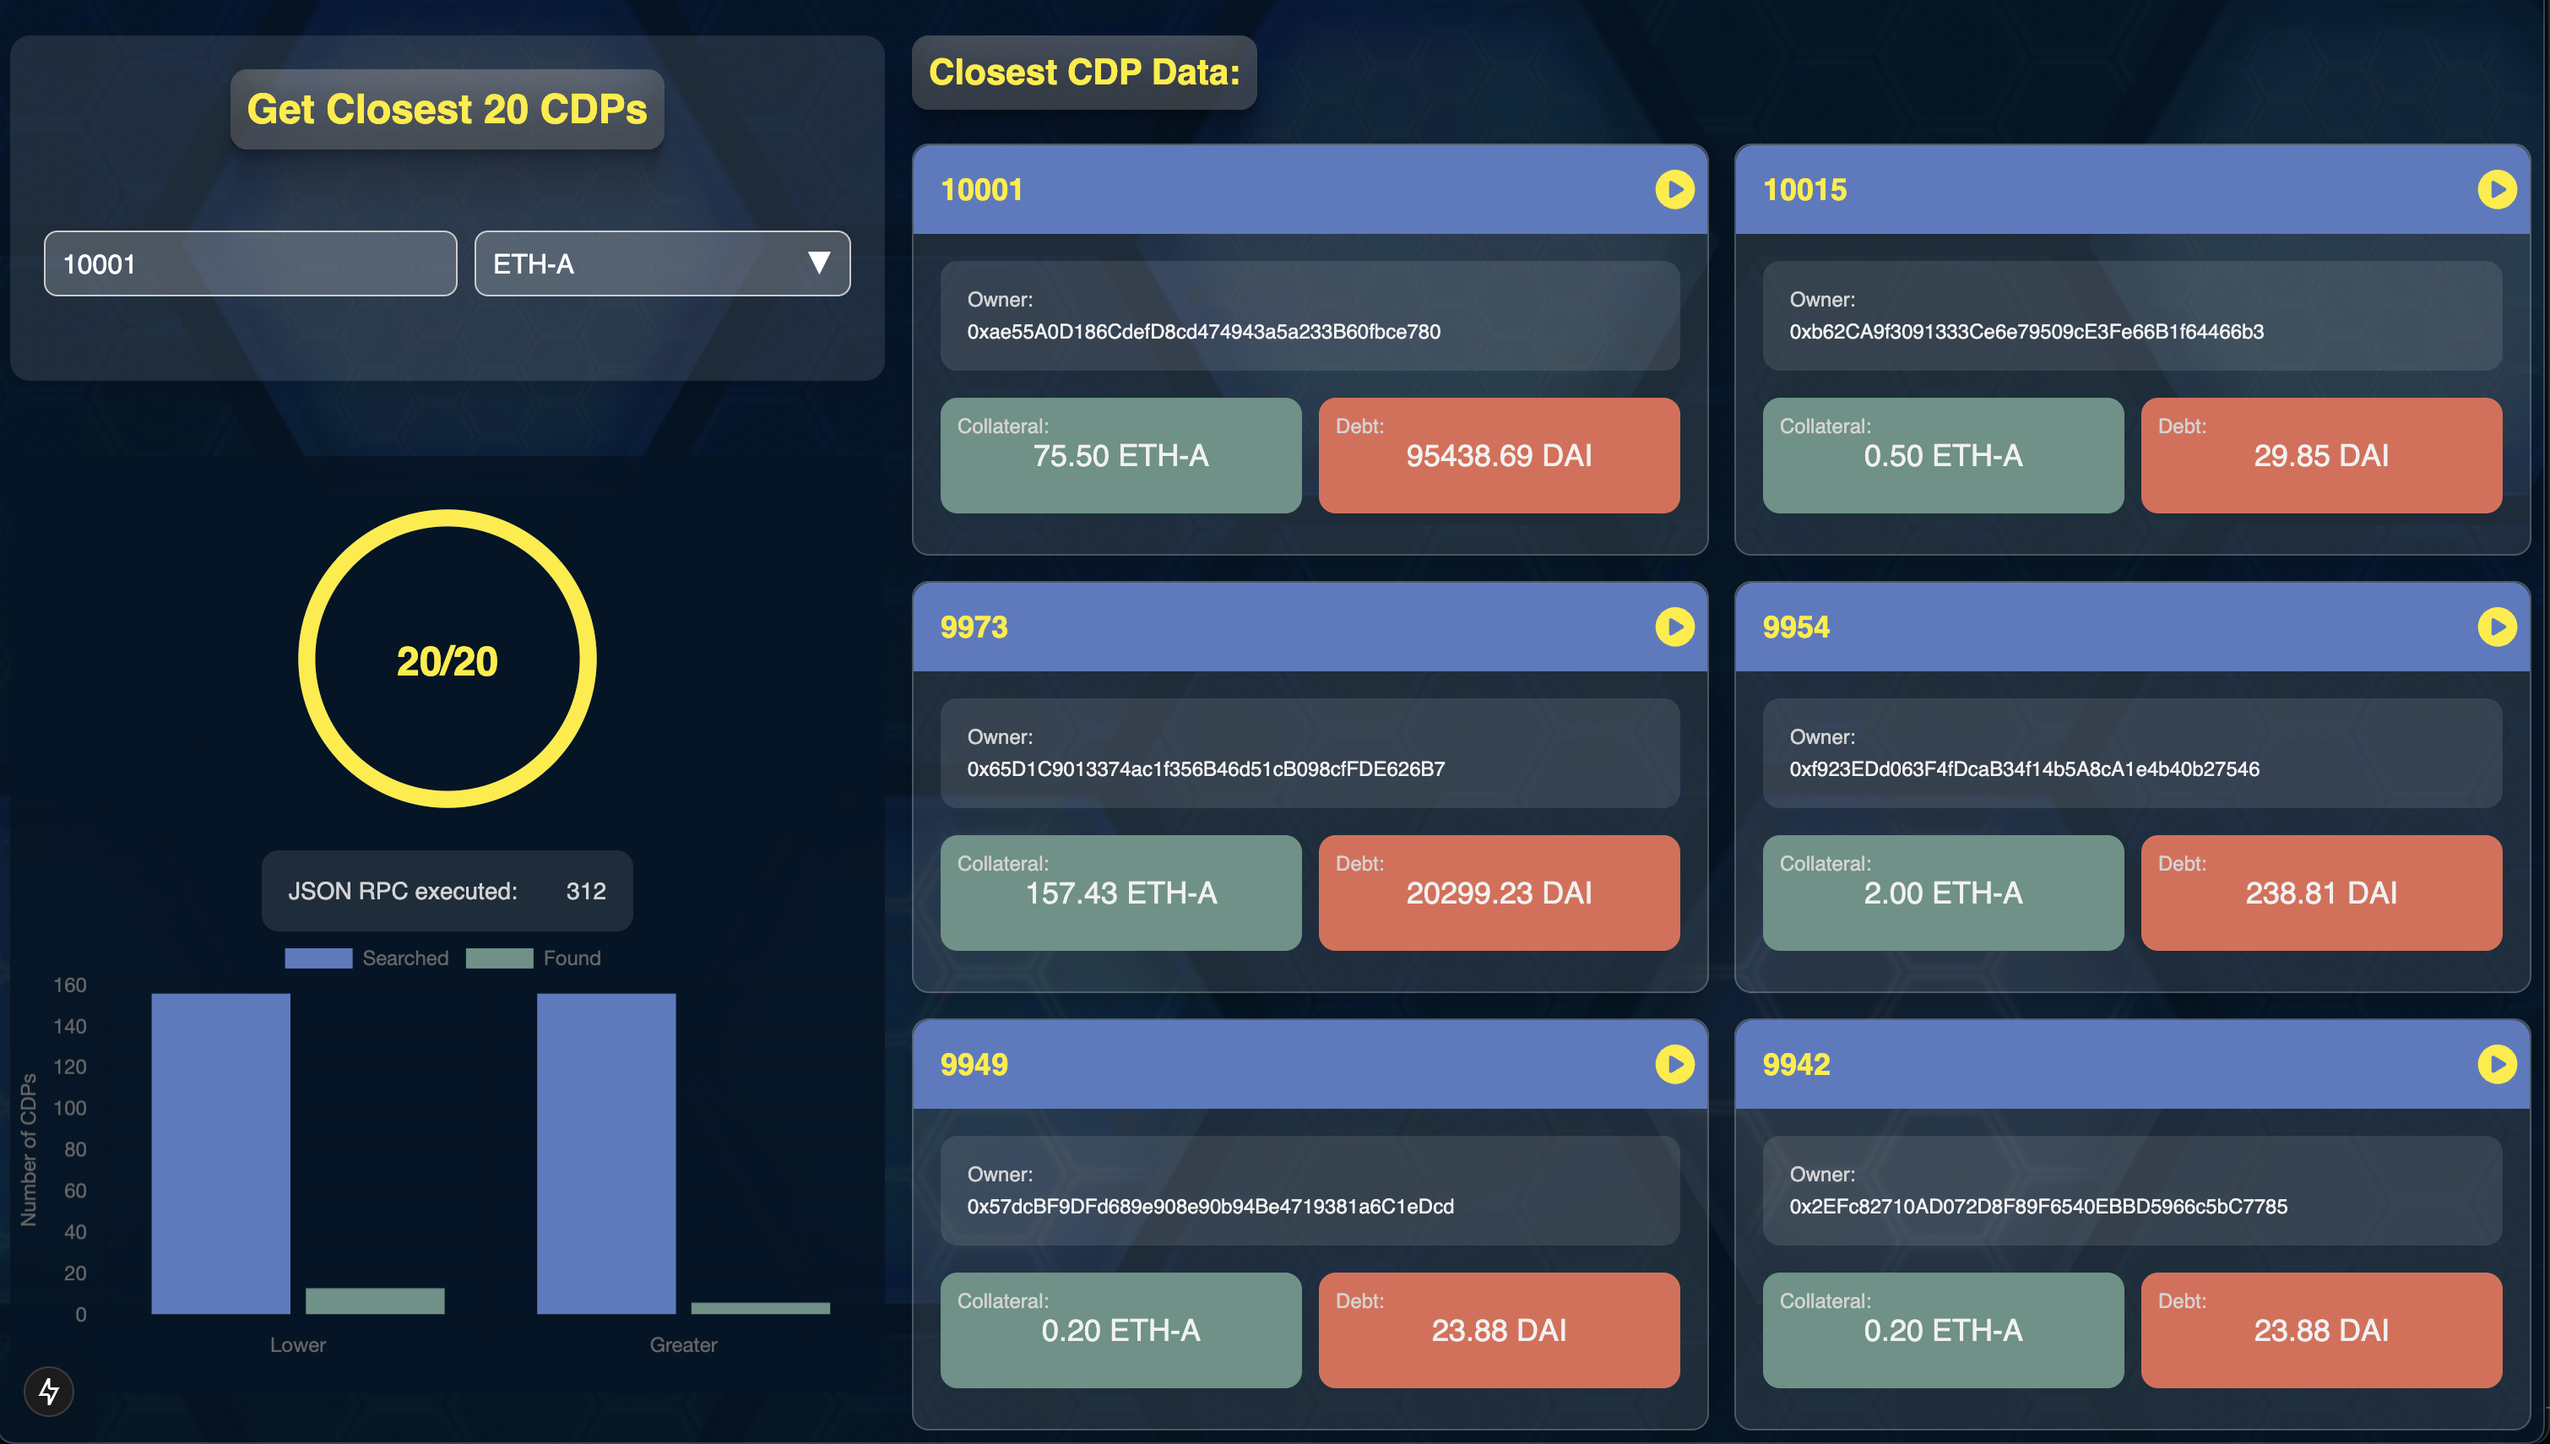
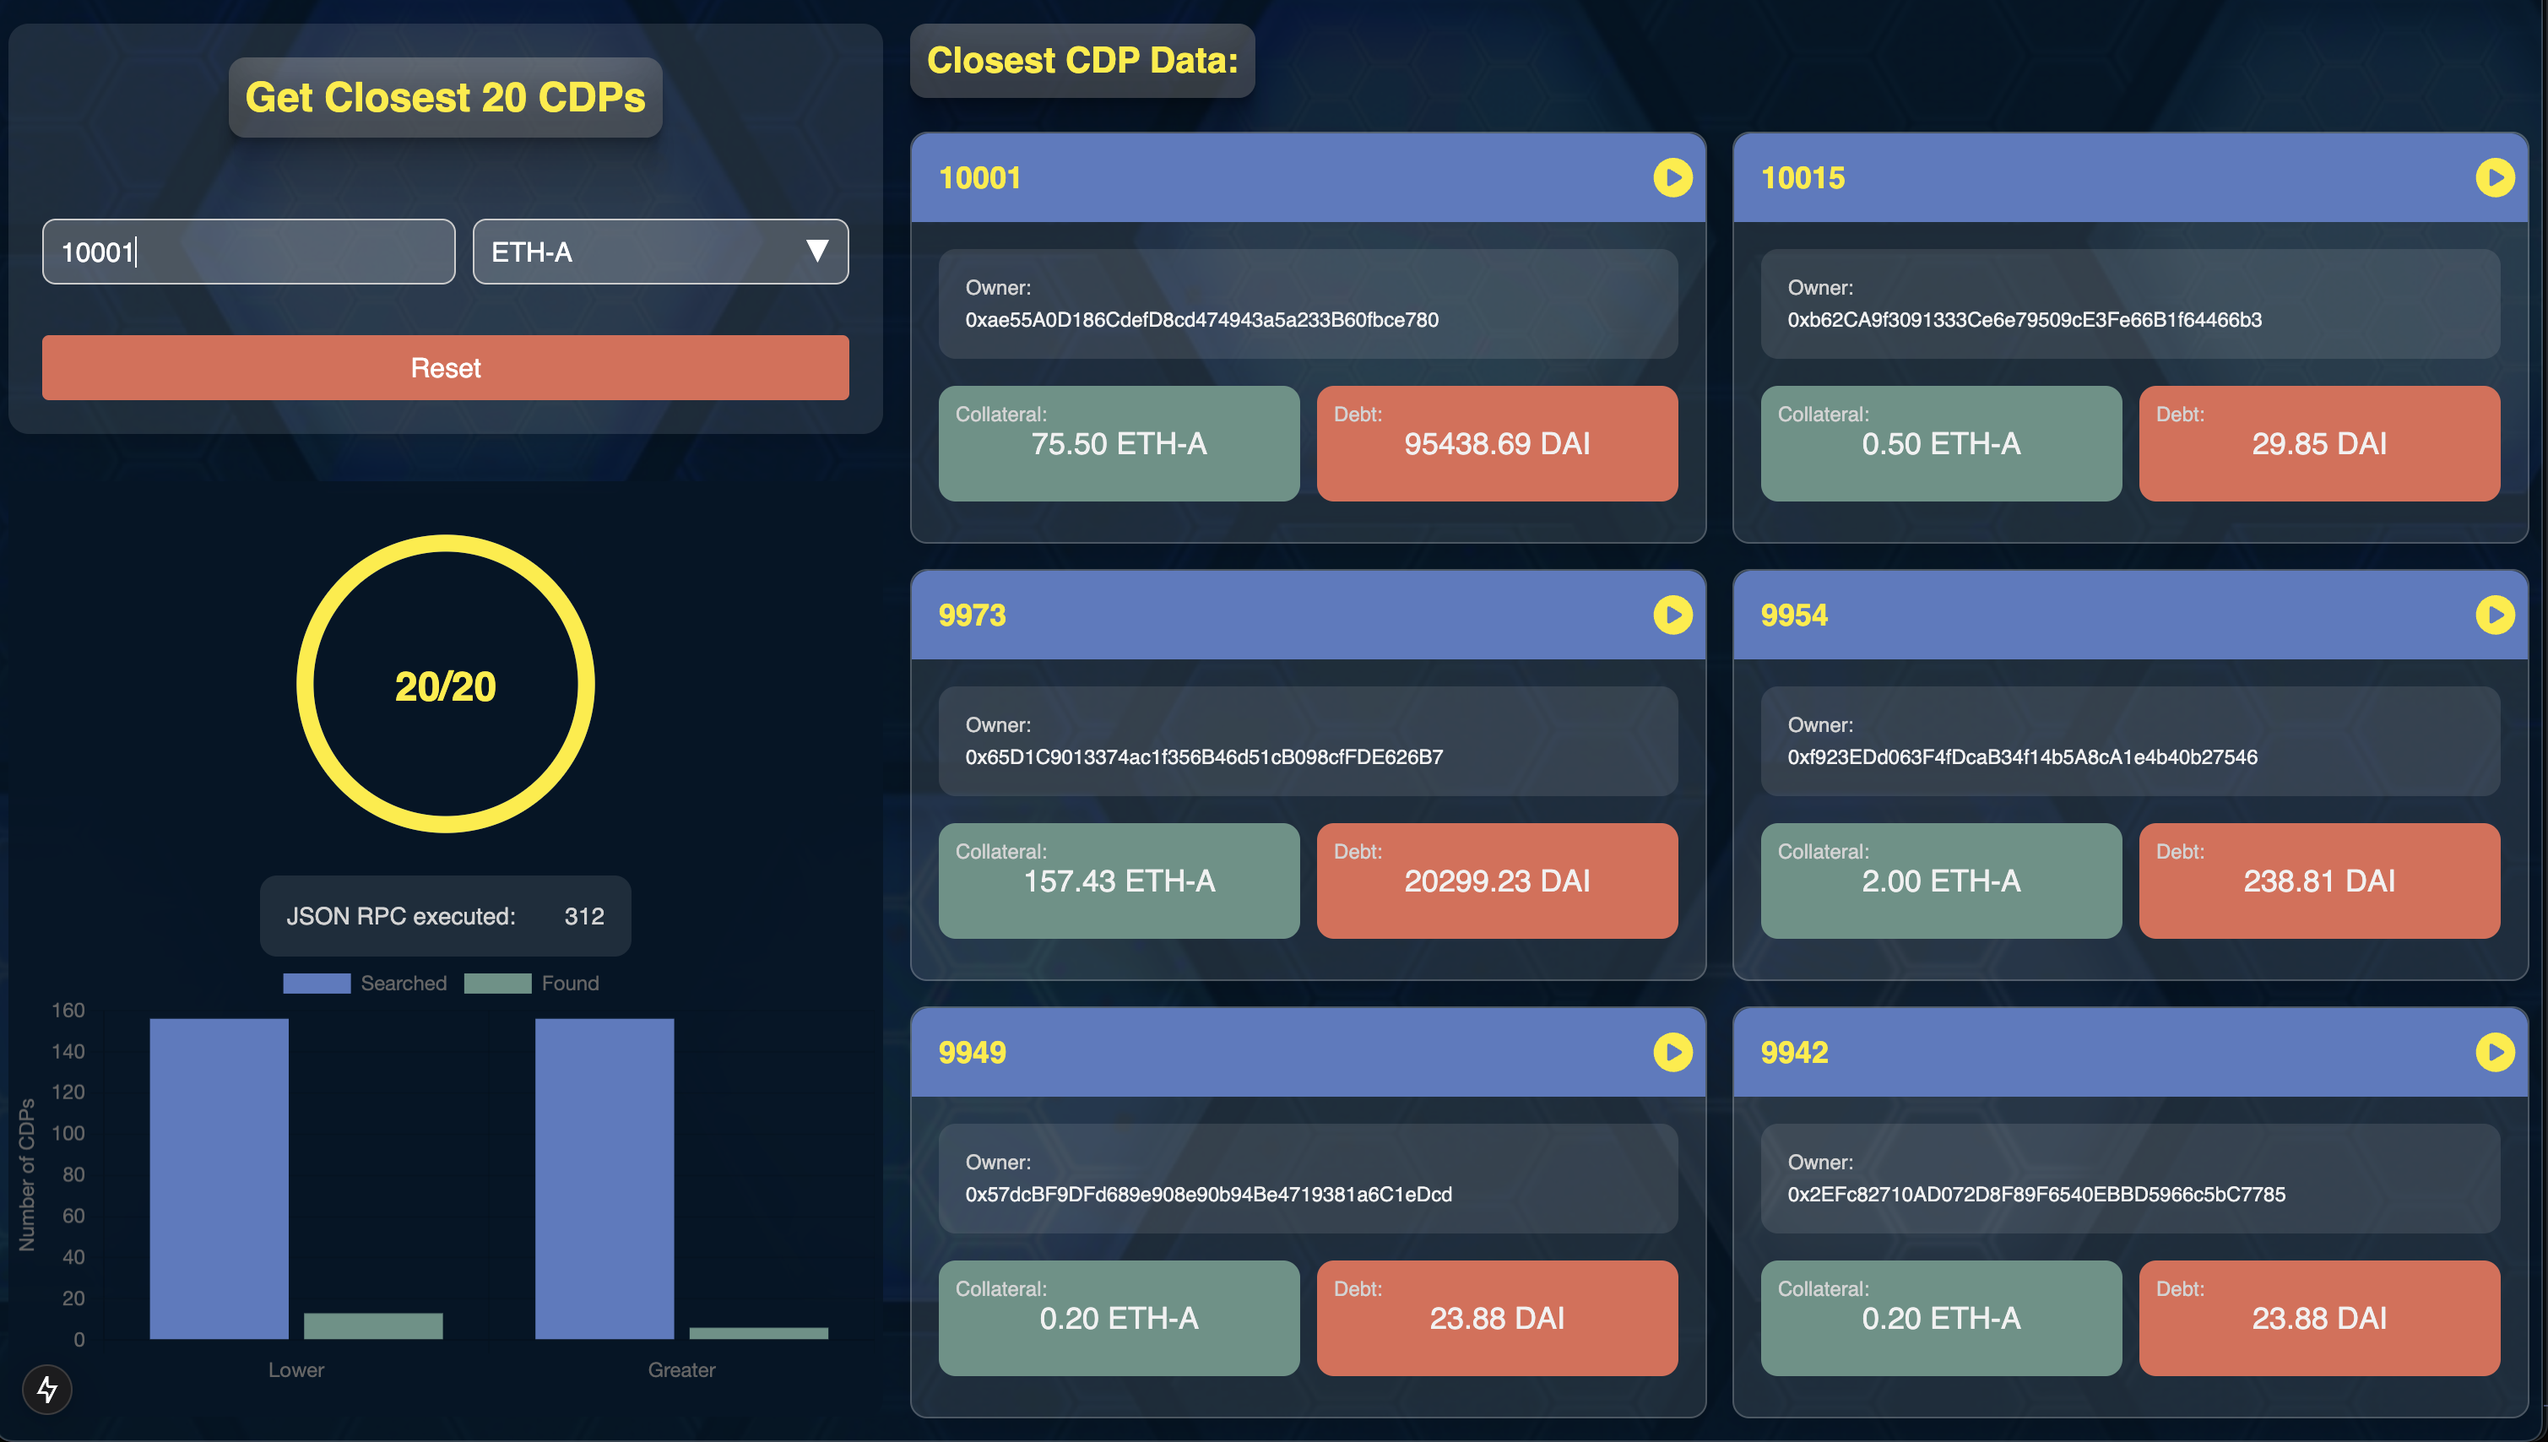
update preview image for new design to get the newsest data

diff --git a/README.md b/README.md
@@ -2,7 +2,7 @@ This is a [Next.js](https://nextjs.org) project bootstrapped with [`create-next-
 
 ## Getting Started
 
-First, run the development server:
+First install dependencies with `npm install`, then run the development server:
 
 ```bash
 npm run dev
